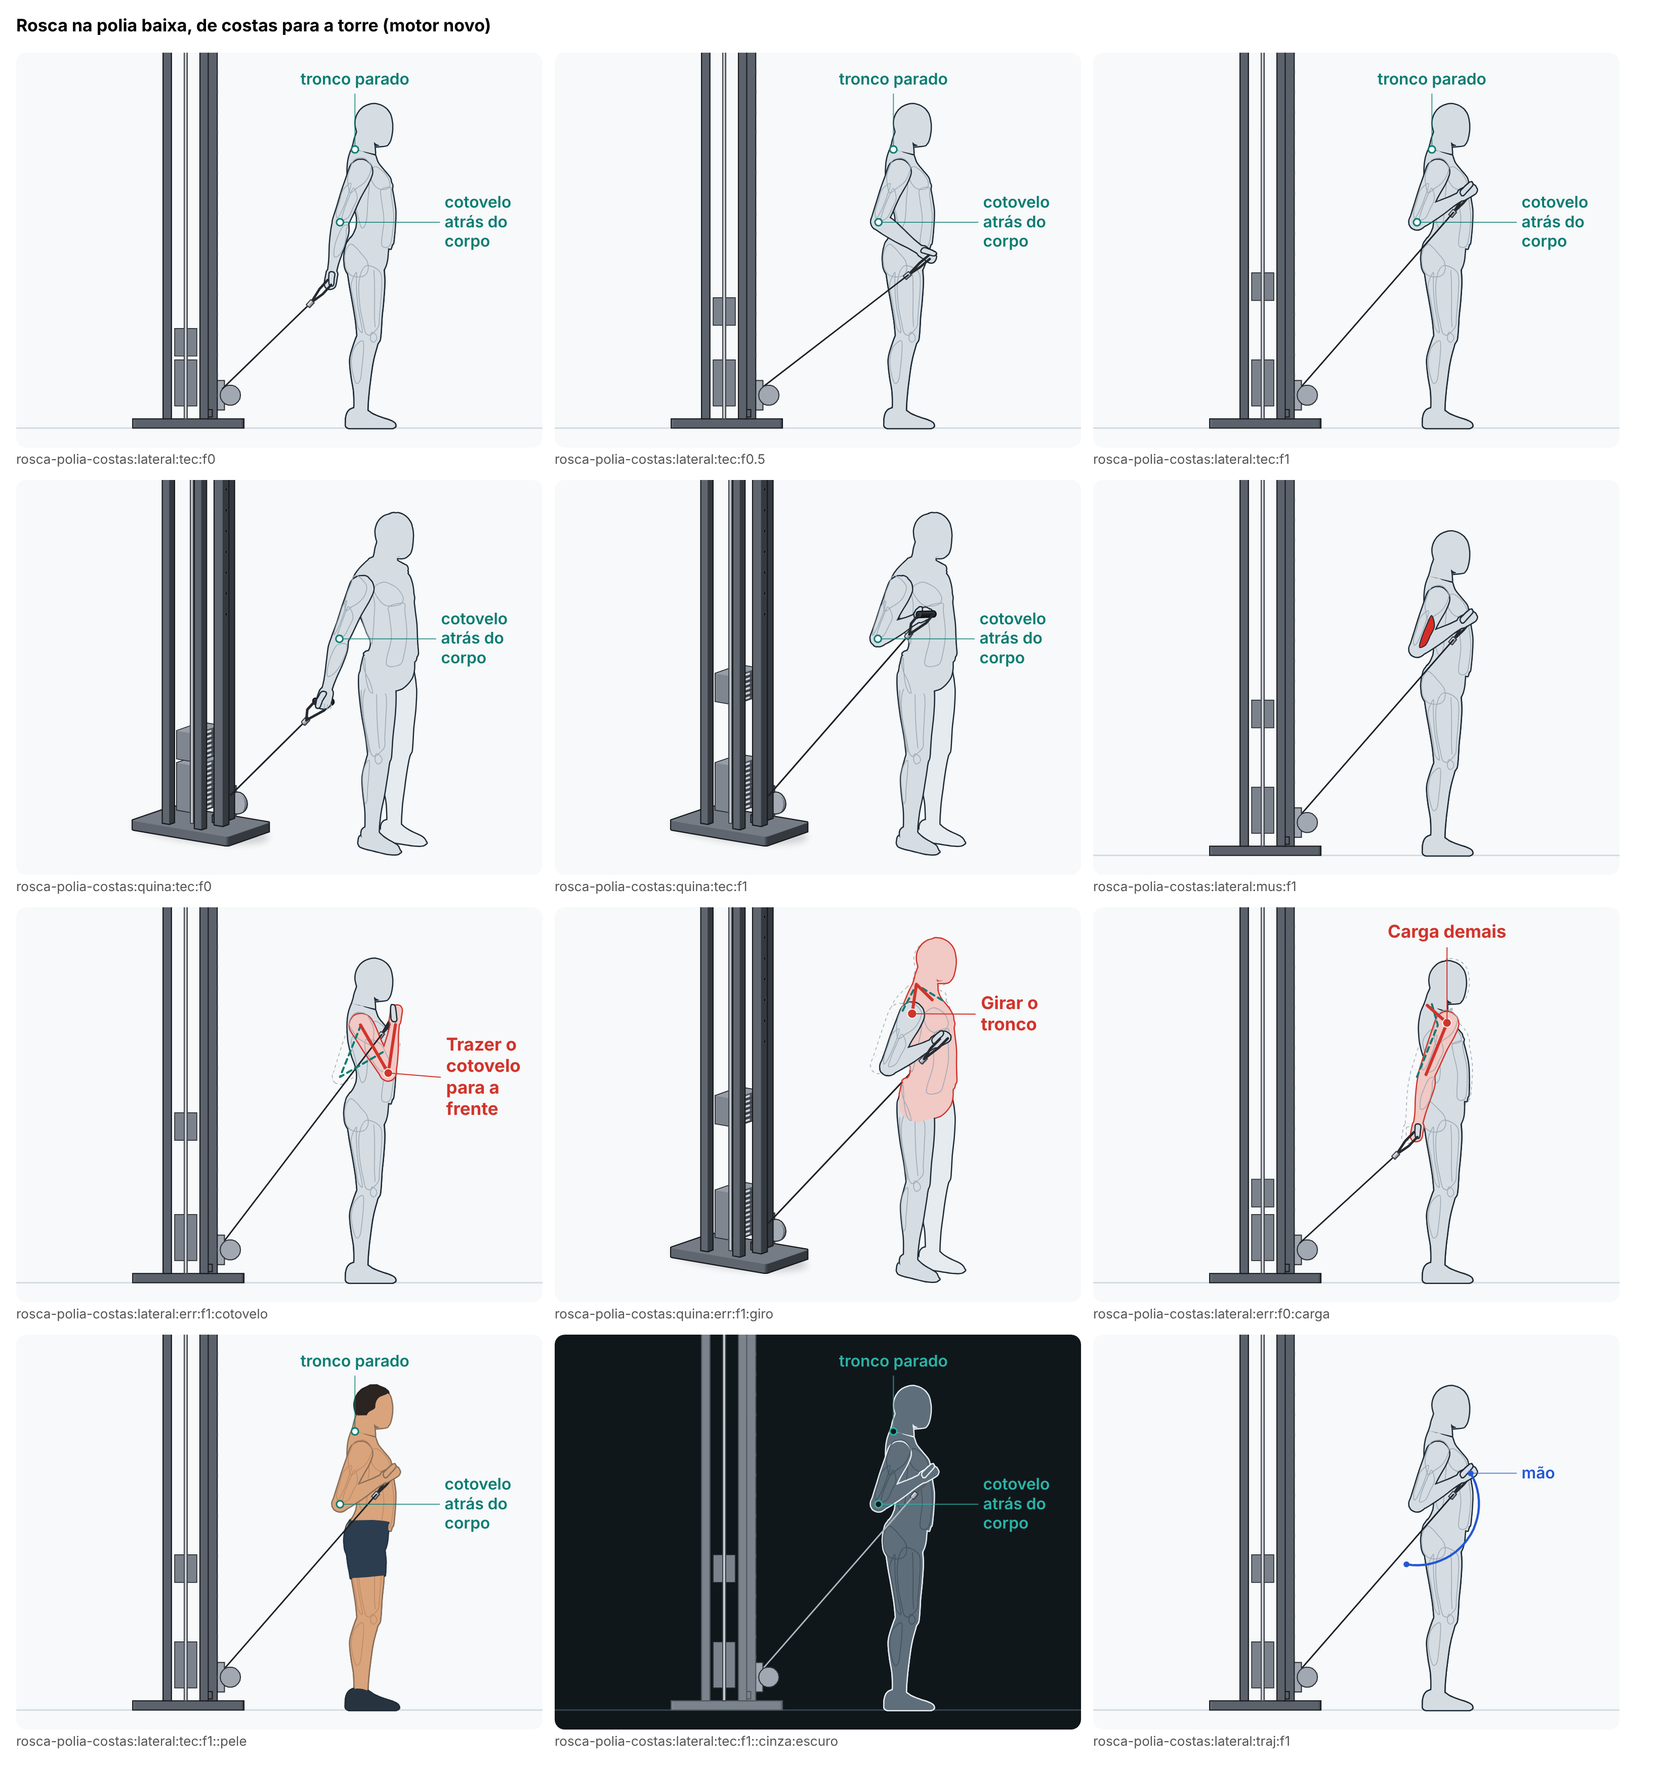
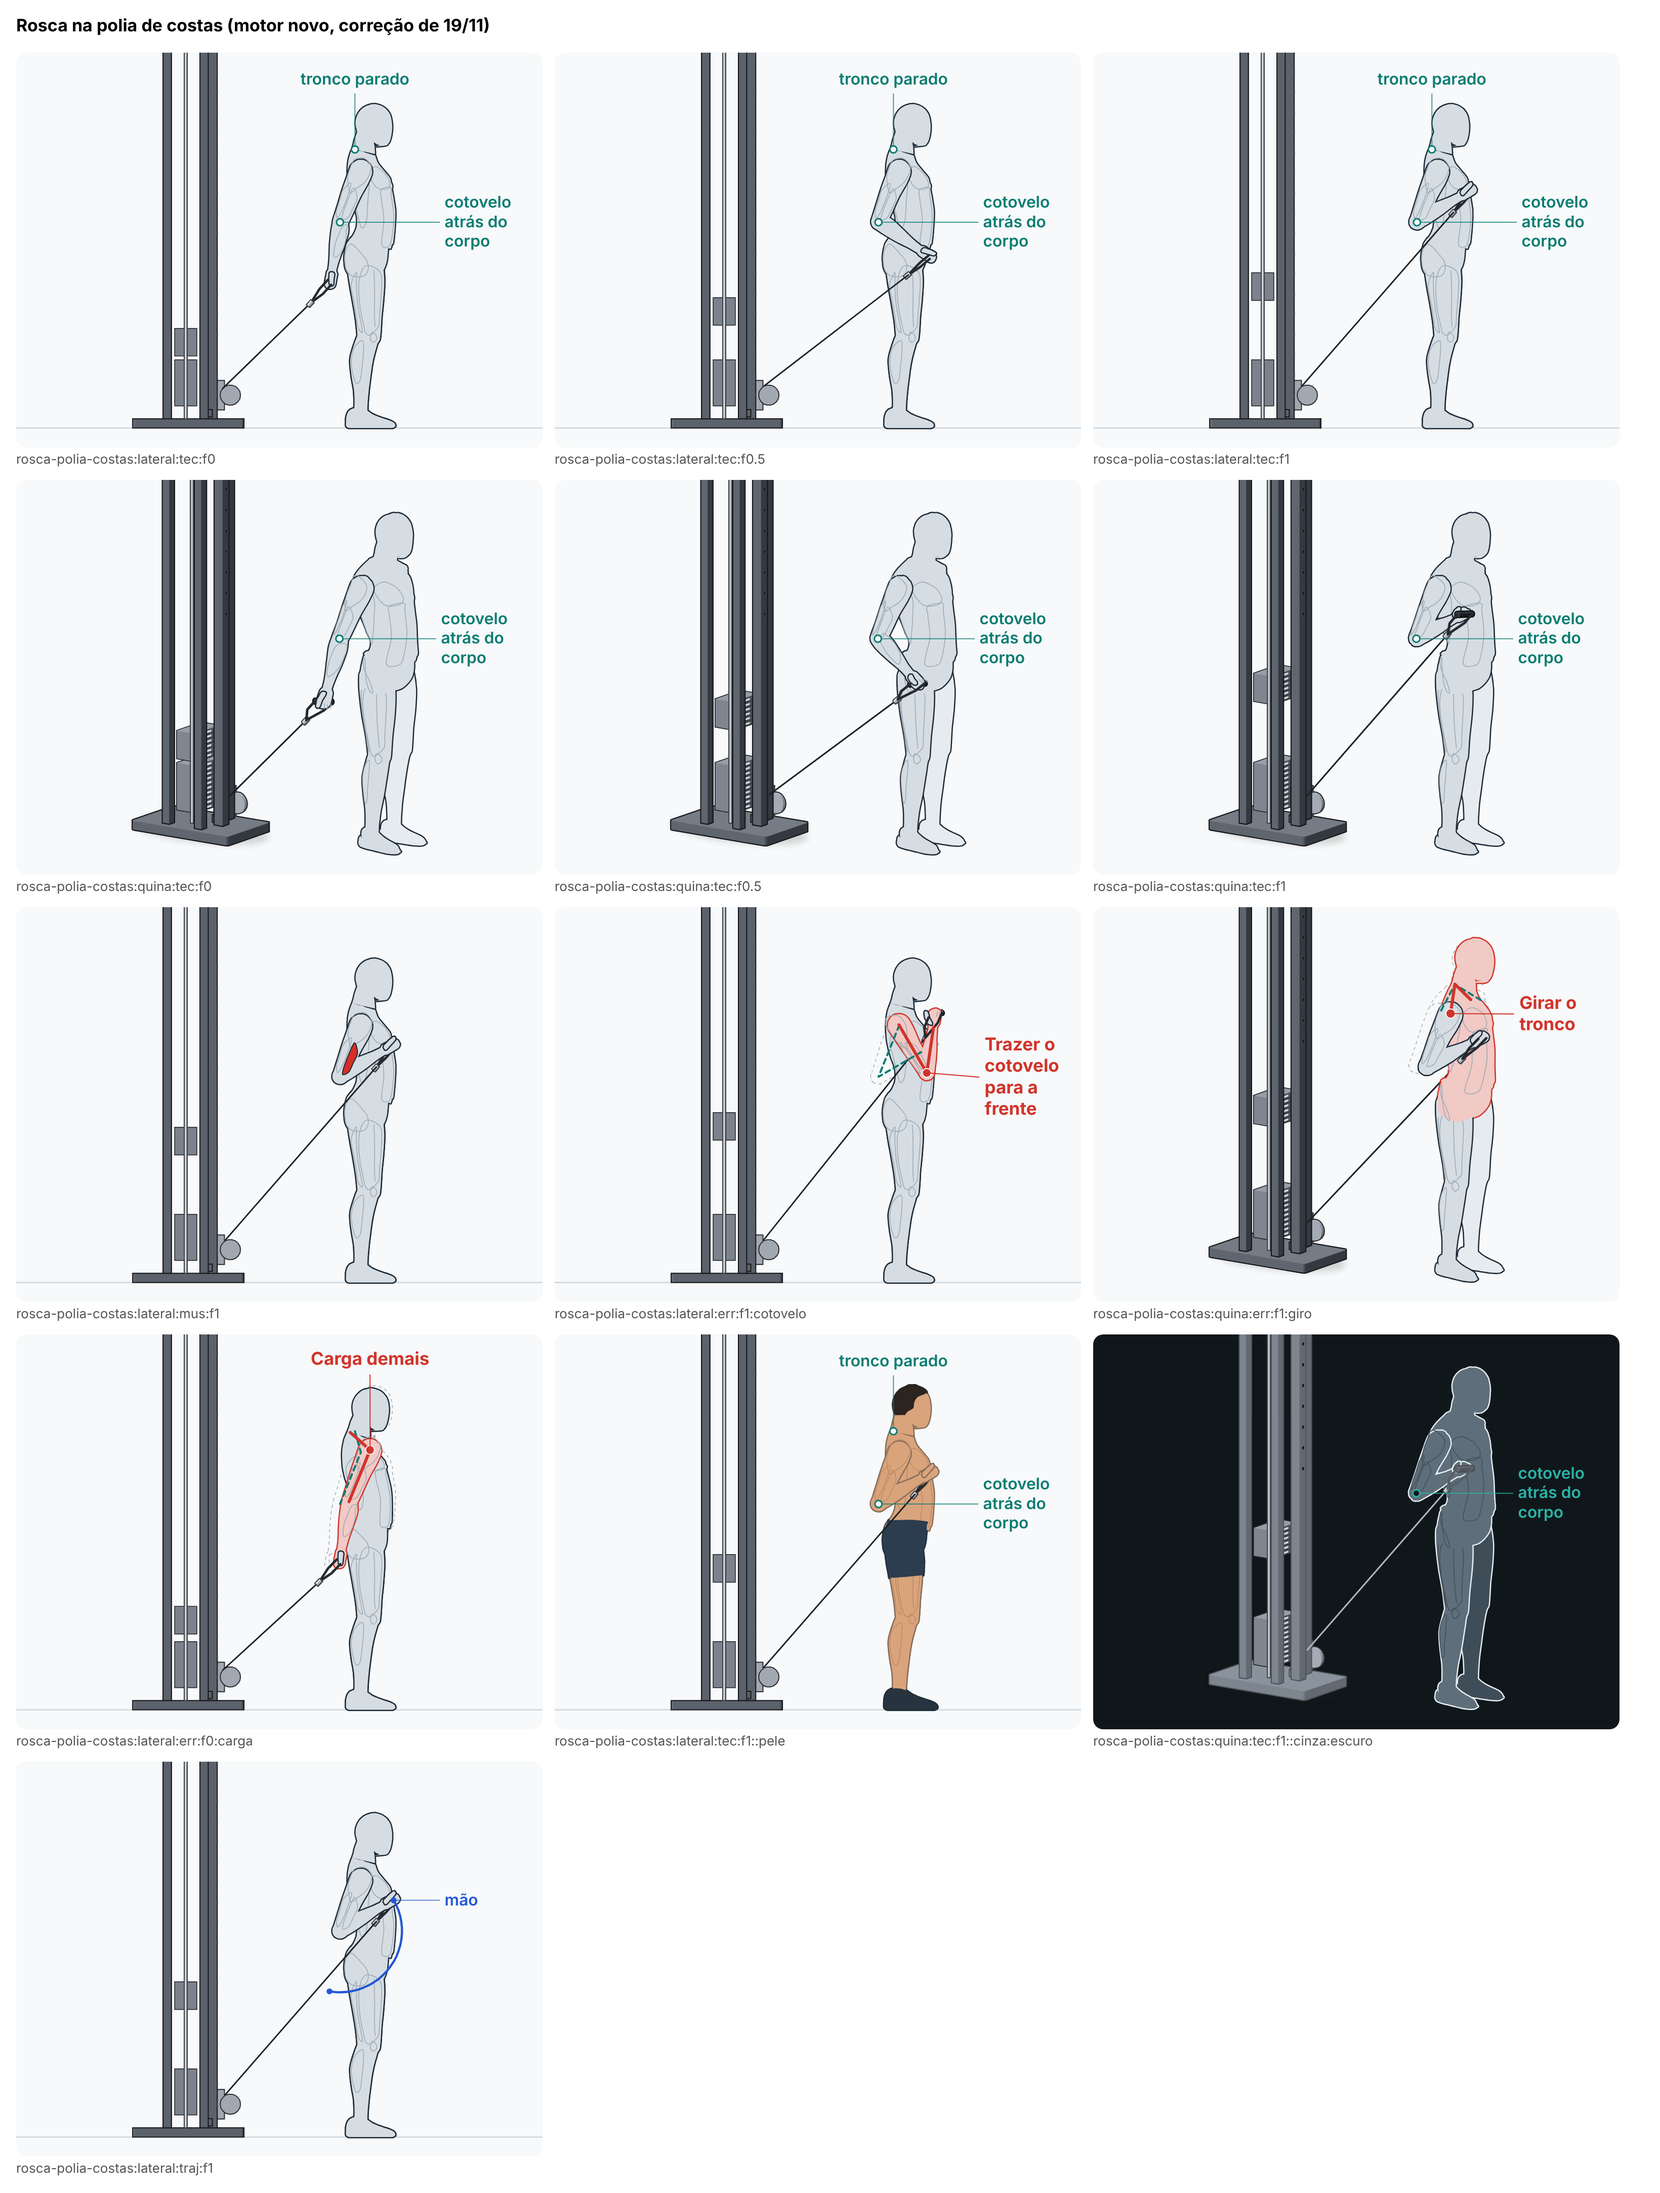
Rosca na polia de costas: no erro do cotovelo à frente, o cabo passa por fora do braço (auditoria M8)
Com o cotovelo à frente e a mão no plano do braço, o cabo que sai da mão para
trás e para baixo atravessava o braço direito (até 5,0 cm). No erro, o braço
gira para fora e a mão abre 25° para o lado (linha nova da ficha,
`erro.cotovelo.maoFora`): o cabo passa por fora do braço, e a alça do estribo
encosta 0,3 cm no antebraço.

Regra comum `cabos-fora-do-corpo-nos-erros` ligada nesta ficha. Falha no
estado antigo, passa no novo.

Claude-Session: https://claude.ai/code/session_01YRzts8DBGbsca9onebcMt1

diff --git a/src/engine/novo/exercicios/rosca-polia-costas.ts b/src/engine/novo/exercicios/rosca-polia-costas.ts
@@ -51,7 +51,9 @@ function pedidoDoCorpo(u: number, erro?: string): PedidoEmPe {
       fora = dirRef(t.torax, [s, 0, 0]),
       frente = norm(perp(dirRef(t.torax, [0, 0, 1]), um)),
       c = cotovelo * rad,
-      be = f('antebraco.paraFora') * rad;
+      // no erro do cotovelo, o braço gira para fora e a mão abre para o lado: o cabo passa por fora do braço (até 19/11
+      // ele atravessava o braço)
+      be = (f('antebraco.paraFora') + (erro === 'cotovelo' ? f('erro.cotovelo.maoFora') * x : 0)) * rad;
     const antebraco = norm(add(mul(add(mul(um, Math.cos(c)), mul(frente, Math.sin(c))), Math.cos(be)), mul(fora, Math.sin(be))));
     return { ...b, antebraco, mao: { ...b.mao, polegar: polegarDaPegada(um, antebraco, b.polo, s, f('maos.supinacao')) } };
   };

diff --git a/docs/revisoes/animacao-nova/lote-A5/rosca-polia-costas.md b/docs/revisoes/animacao-nova/lote-A5/rosca-polia-costas.md
@@ -55,3 +55,26 @@ Não há correção registrada para este exercício. Das roscas: o antebraço "s
 - **De lado, o fio do rótulo "cotovelo atrás do corpo"** atravessa o tronco: o cotovelo está atrás, e o lado de trás do quadro é da coluna, então o texto vai para a frente do corpo.
 - **De lado, no fim, o cabo passa por cima do tronco na imagem** (ele está do lado de fora do corpo, a 4,3 cm do antebraço, mas o braço que trabalha é o de perto de quem olha).
 - **Pés lado a lado:** o cartão não pede um pé à frente do outro; muita gente faz este exercício com um pé à frente para se equilibrar contra o cabo. A força do cabo não entra no equilíbrio (como em todas as animações na polia).
+
+## Correção de 19/11 (auditoria)
+
+A auditoria das fases A e B (M8) achou que, no erro "Trazer o cotovelo para a frente", de lado, o cabo atravessa o braço direito (4,5 cm). A animação saiu da aprovação até a correção.
+
+**A causa.** No fim do erro, o cotovelo vai à frente e a mão sobe até perto do ombro, no plano do braço; o cabo sai da mão para trás e para baixo, até a roldana atrás da pessoa, e passava por dentro do braço.
+
+**A mudança** (só no erro, dentro do que a ficha diz: "o braço sai de trás do corpo e vai à frente enquanto a mão sobe"): linha nova da ficha, `erro.cotovelo.maoFora` (25°, selo desenho). Com o cotovelo à frente, o braço gira para fora e a mão abre para o lado do antebraço (25° a mais que o ângulo de carregamento, crescendo com o erro); o cabo passa por fora do braço. O ciclo certo e os outros dois erros não mudaram.
+
+**A regra nova** (comum, `cabos-fora-do-corpo-nos-erros`, em `regras/vistas-do-guia.ts`, ligada só nas fichas do tríceps com barra reta, da puxada com barra reta e da rosca de costas): em cada erro, em 6 instantes (0, 1/4, 1/2, 3/4, 1 e o instante do erro), cada cabo e cada fita do engate (os fios do quadro, fora os riscos da pilha), de meio em meio centímetro, contra o corpo inteiro (os dois lados): quanto entram em cada parte, medido na elipse do anel do Boneco interpolado ali. Não podem entrar mais de 0,5 cm. Ficam de fora as mãos que seguram e, delas, o antebraço a até 8 cm do punho, como na regra do cabo no ciclo (`polia-braco-cabos-livres-do-corpo`, que só olha o ciclo certo).
+
+| | antes (`1828c0e`) | depois |
+|---|---|---|
+| "Trazer o cotovelo para a frente": quanto o cabo entra no corpo (pior instante) | **5,0 cm (braço direito)** | a alça do estribo encosta 0,3 cm no antebraço direito |
+| "Girar o tronco" e "Carga demais" | a alça passa a 2,1 e 2,5 cm do antebraço | igual |
+
+(A auditoria mediu 4,5 cm em u = 1; a regra mede seis instantes e acha 5,0 cm em u = 1. A diferença é a amostragem do cabo.)
+
+Rodada no estado de antes (o exercício e a ficha de `1828c0e`, com a regra nova), a conferência dá **1 falha** (esta regra). No estado novo: **0 falhas**, os mesmos avisos de antes.
+
+**Olhado nos quadros** (`quadros/rosca-polia-costas.png`): de lado, no erro, o cabo passa por fora do braço vermelho (por isso aparece por cima dele, do lado de quem olha) e desce até a roldana; de três quartos, a mão um pouco aberta para fora se lê como um braço que gira para ajudar a subir.
+
+**O que ainda não ficou bom.** A alça do estribo encosta 0,3 cm no antebraço no fim do erro (dentro do amassado da pele, como acontece com a alça de verdade). O giro da mão para fora (25°) é escolha de desenho, sem número na ficha da técnica.
